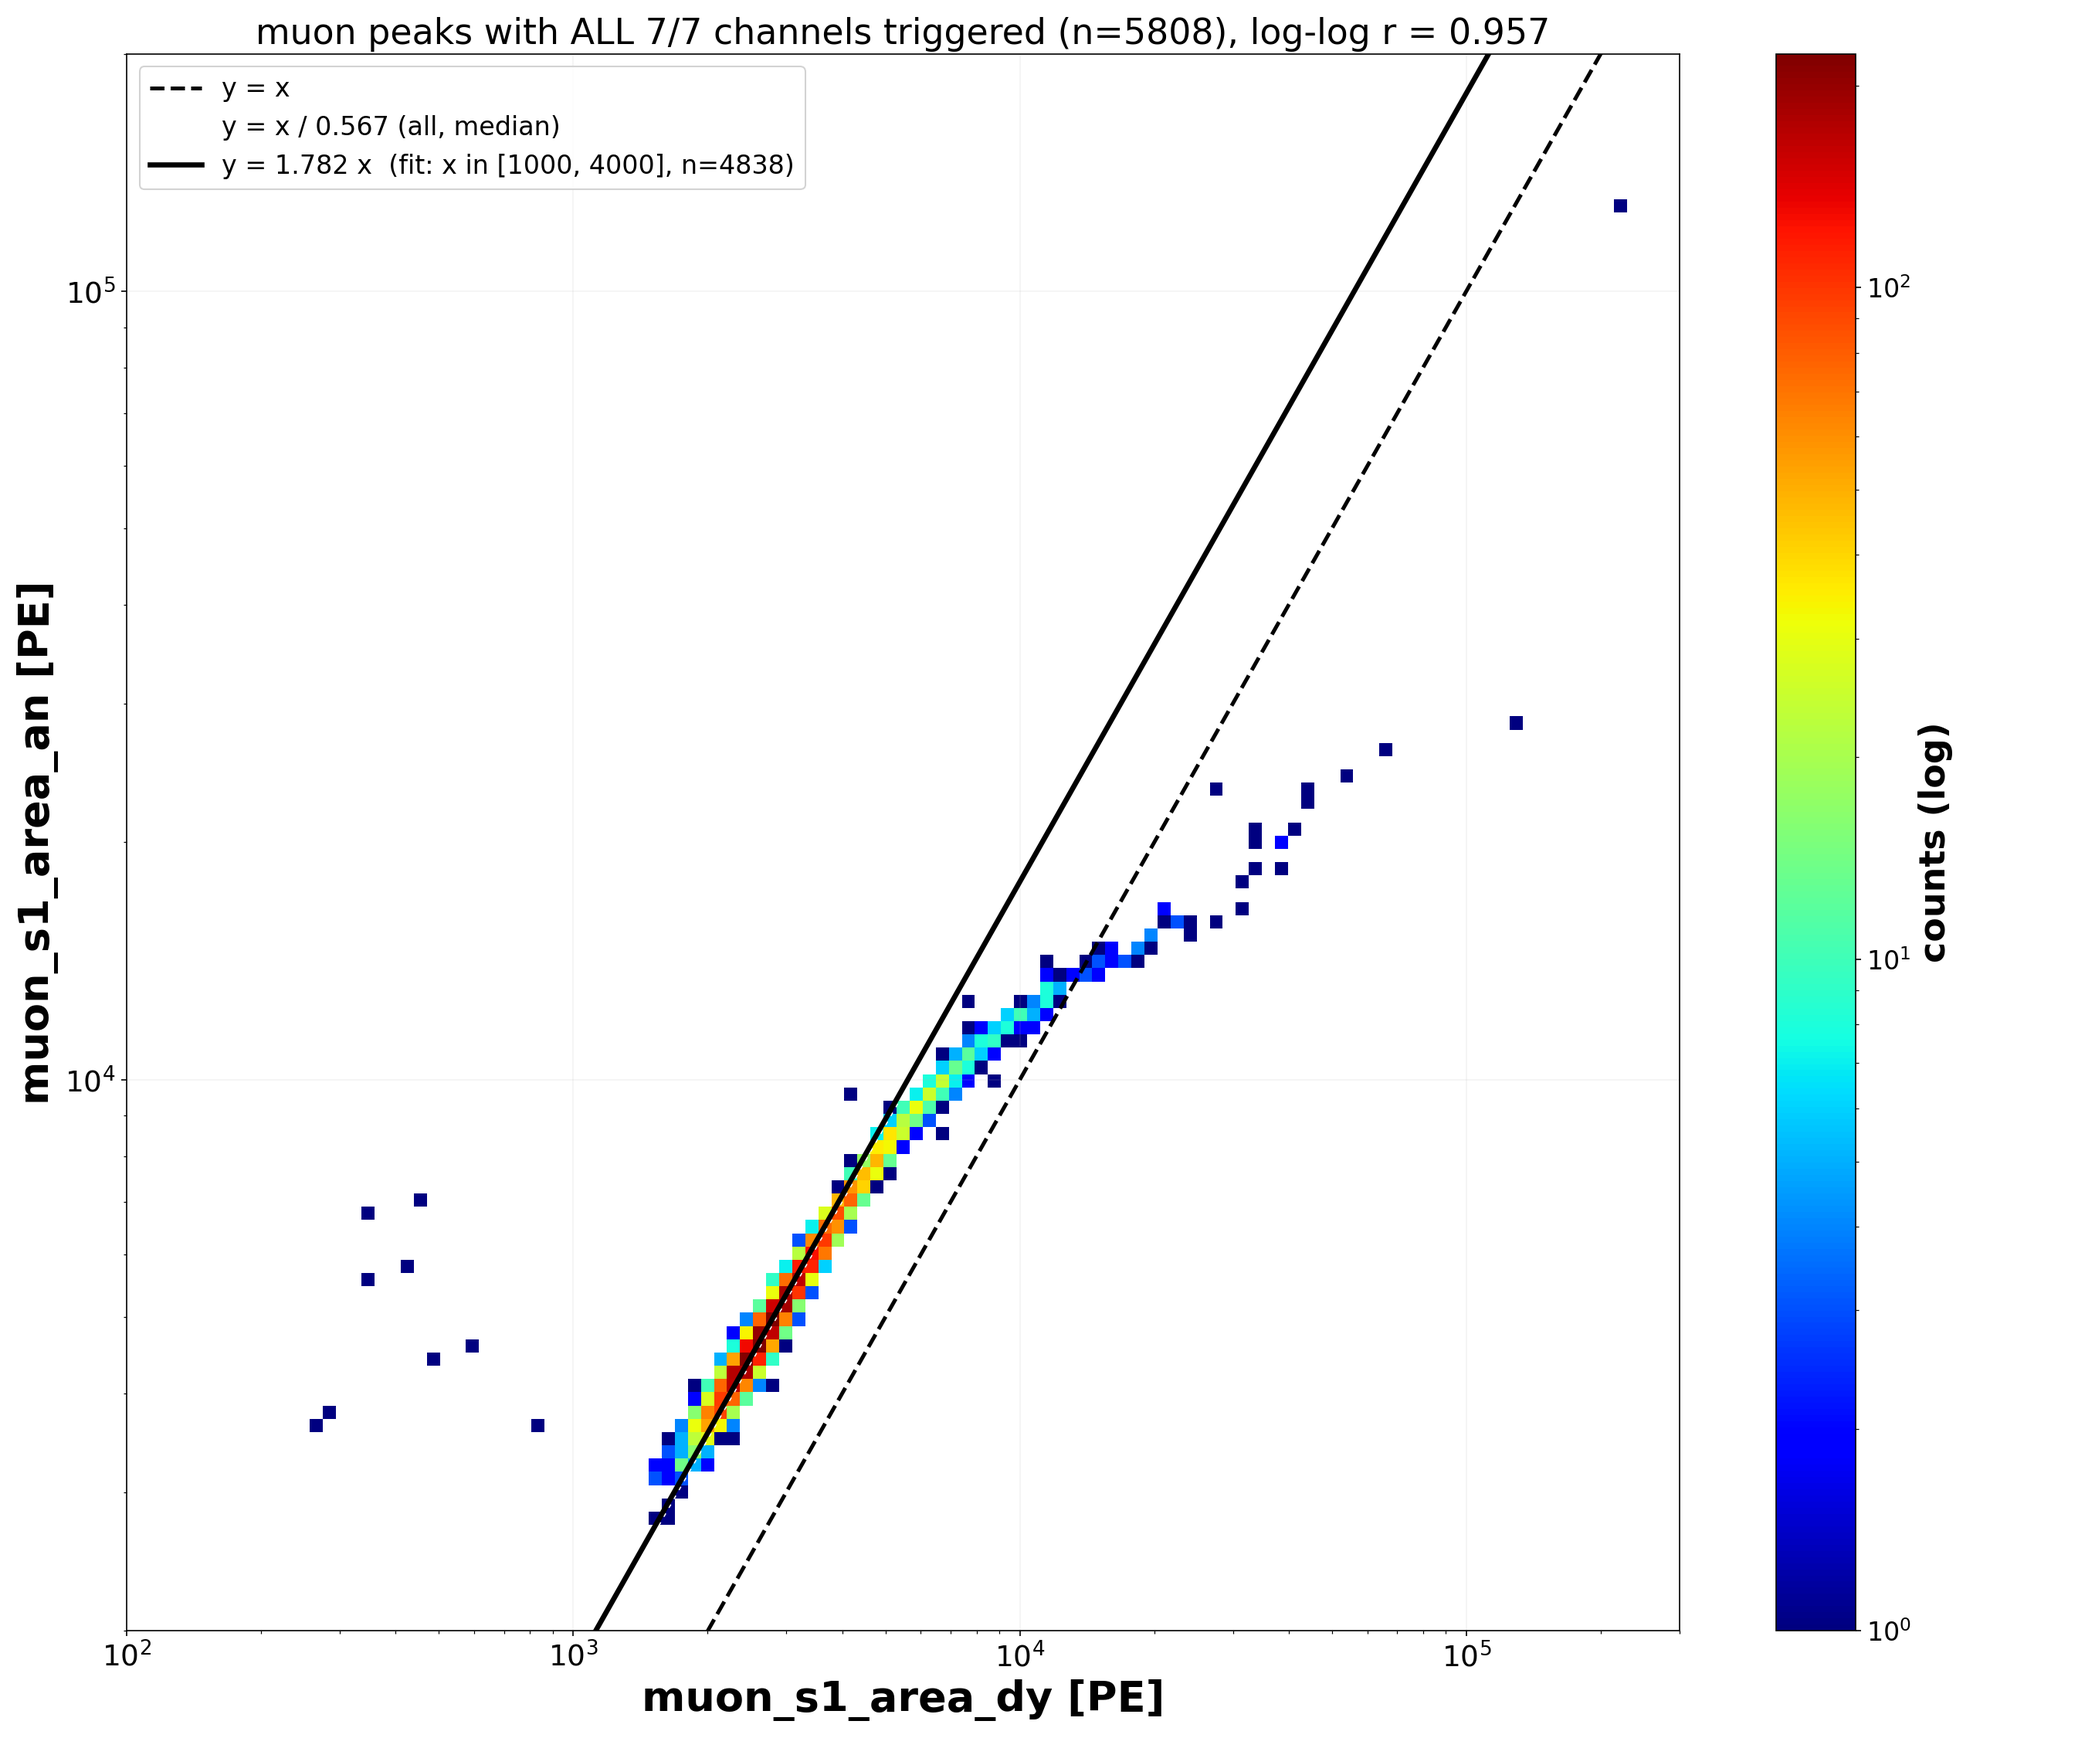
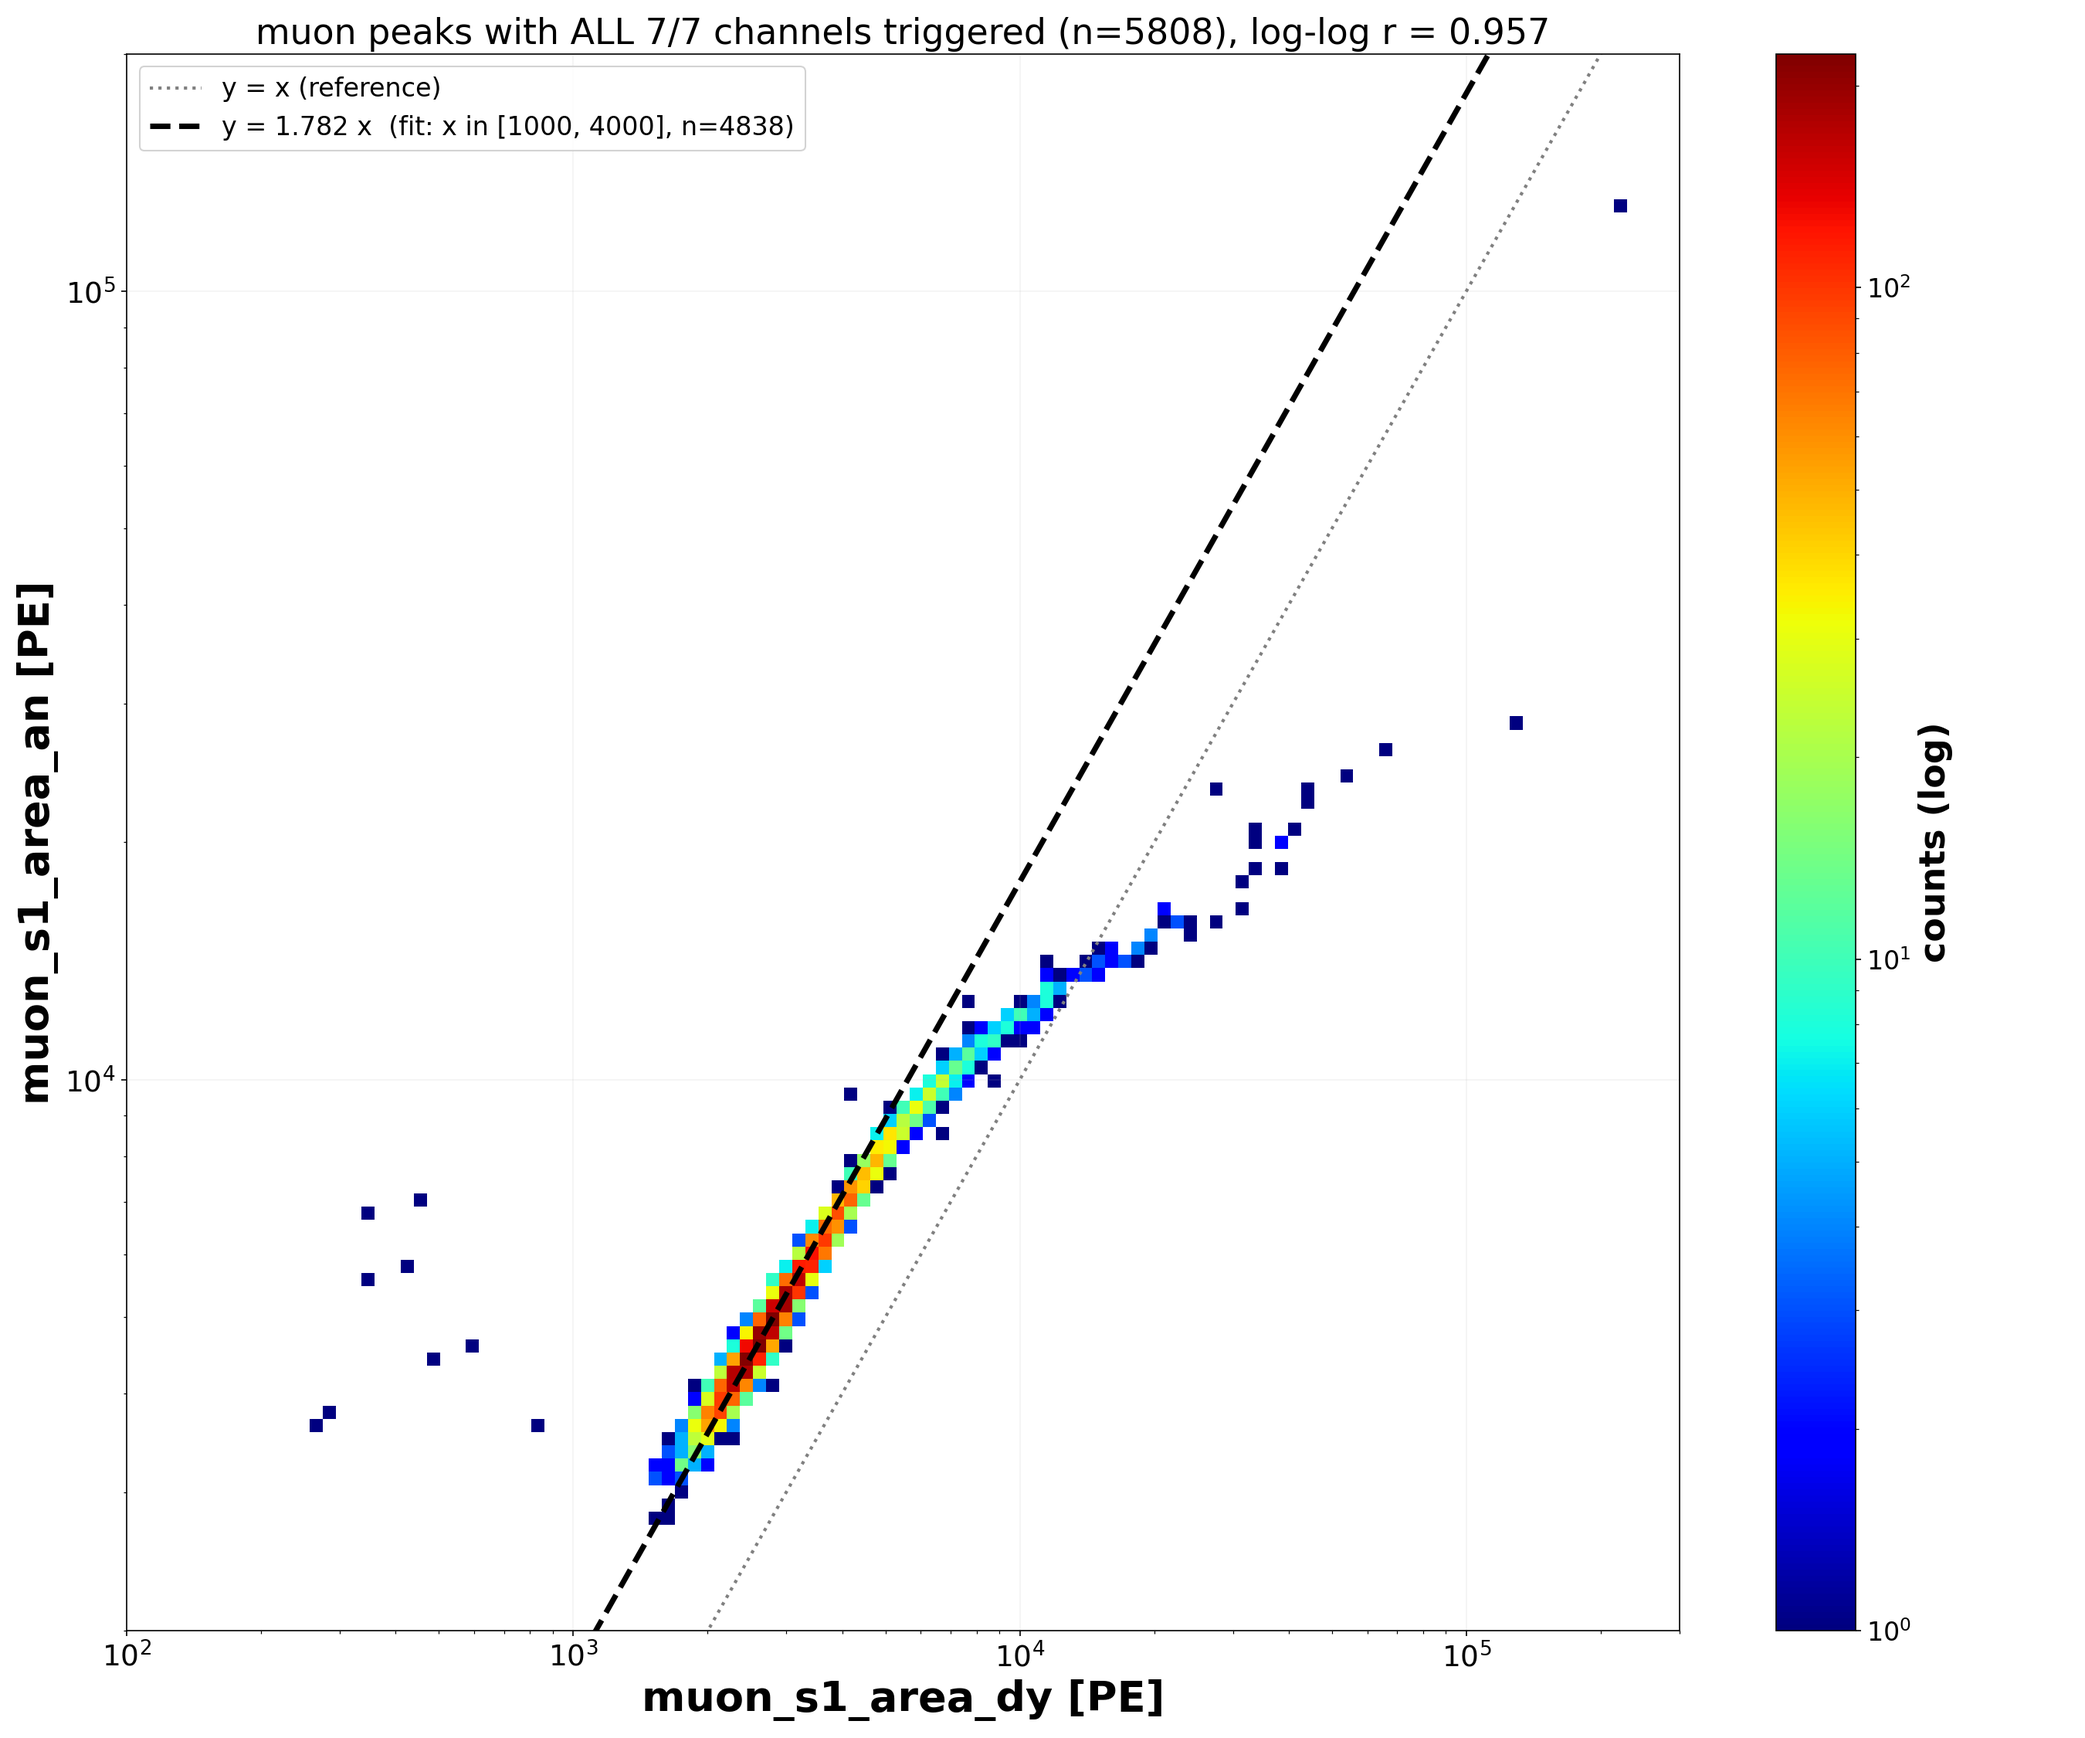
Drop all-data reference line; draw only the [1e3,4e3] fit as a dashed line

Changed region(s): [[0.1244, 0.0311, 0.3733, 0.1244], [0.0622, 0.0933, 0.0933, 0.1244]]

diff --git a/scripts/plot_muon_7ch_s1area_2d.py b/scripts/plot_muon_7ch_s1area_2d.py
@@ -43,16 +43,14 @@ ax.set_xlim(xlo, xhi)
 ax.set_ylim(ylo, yhi)
 
 FIT_LO, FIT_HI = 1e3, 4e3
-ratio = (v.muon_s1_area_dy / v.muon_s1_area_an).median()
 fit = v[(v.muon_s1_area_dy >= FIT_LO) & (v.muon_s1_area_dy <= FIT_HI)]
 k = 10 ** np.mean(np.log10(fit.muon_s1_area_an / fit.muon_s1_area_dy))
 print(f"y=kx fit on muon_s1_area_dy in [{FIT_LO:g},{FIT_HI:g}]: n={len(fit)}  k={k:.4f} "
       f"(median y/x={np.median(fit.muon_s1_area_an / fit.muon_s1_area_dy):.4f})")
 
 gx = np.logspace(np.log10(xlo), np.log10(xhi), 200)
-ax.plot(gx, gx, "k--", lw=2.4, label="y = x")
-ax.plot(gx, gx / ratio, "w:", lw=2.4, label=f"y = x / {ratio:.3f} (all, median)")
-ax.plot(gx, k * gx, "k-", lw=3.2,
+ax.plot(gx, gx, color="0.5", ls=":", lw=2.0, label="y = x (reference)")
+ax.plot(gx, k * gx, "k--", lw=3.4,
         label=f"y = {k:.3f} x  (fit: x in [{FIT_LO:g}, {FIT_HI:g}], n={len(fit)})")
 ax.axvspan(FIT_LO, FIT_HI, color="w", alpha=0.12, zorder=0)
 ax.set_xlabel("muon_s1_area_dy [PE]")
